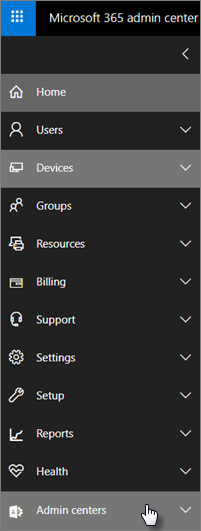
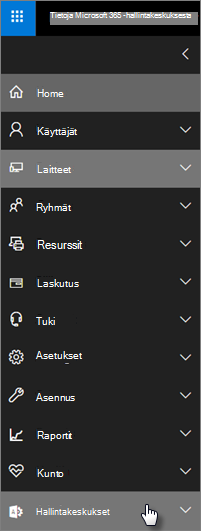
commit translated contents

diff --git a/microsoft-365/business/install-office-on-windows-10-during-setup.md b/microsoft-365/business/install-office-on-windows-10-during-setup.md
@@ -25,18 +25,18 @@ search.appverid:
 - MET150
 - MOE150
 ms.assetid: 5ffd5327-a83a-4d53-94d6-22ba2f9fd090
-description: Microsoft 365 Business Premiumin avulla voit automaattisesti varmistaa, että käyttäjillä on Officen uusin versio kaikissa Windows 10 -laitteissaan.
-ms.openlocfilehash: d3c62eb42ea73c7af6df6012dbc9488828cd1ba8
-ms.sourcegitcommit: 53acc851abf68e2272e75df0856c0e16b0c7e48d
+description: Katso, Microsoft 365 Business Premium avulla voit automaattisesti varmistaa, että käyttäjillä on uusin Office kaikissa Windows 10 laitteissaan.
+ms.openlocfilehash: 869a44196e93ed0c9f7f6f64b21fe9b2302e9a48c4b0bdcdc3a09d28bb954d1c
+ms.sourcegitcommit: a1b66e1e80c25d14d67a9b46c79ec7245d88e045
 ms.translationtype: MT
 ms.contentlocale: fi-FI
-ms.lasthandoff: 04/02/2021
-ms.locfileid: "51580170"
+ms.lasthandoff: 08/05/2021
+ms.locfileid: "53887539"
 ---
 # <a name="install-office-on-windows-10-during-setup"></a>Officen asentaminen Windows 10een asennuksen aikana
 
 ![Banneri, joka osoittaa https://aka.ms/aboutM365preview kohtaan .](../media/m365admincenterchanging.png)
 
-Tämä asetus on oletusarvoisesti pois käytöstä. Voit ottaa sen käyttöön ja varmistaa, että käyttäjillä on officen uusin versio kaikissa Windows 10 -laitteissaan, mutta varmista ensin, että kaikki edellytykset täyttyvät. Käyttäjillä on oltava Microsoft 365 Business Premium -käyttöoikeus, jotta tämä asetus työntäisi ohjelmiston laitteeseen, sekä muita Microsoft [365 Business Premiumin Office-käyttöönottoon valmistautumista](prepare-for-office-client-deployment.md)koskevia vaatimuksia.
+Tämä asetus on oletusarvoisesti pois käytöstä. Voit ottaa sen käyttöön sen varmistamiseksi, että käyttäjillä on uusin Office kaikissa Windows 10 laitteissaan, mutta varmista ensin, että kaikki edellytykset täyttyvät. Käyttäjillä on oltava käyttöoikeus Microsoft 365 Business Premium jotta tämä asetus työntäisi ohjelmiston laitteeseen, sekä muita artikkelissa Office asiakasohjelman käyttöönottoon valmistautuminen [Microsoft 365 Business Premium.](prepare-for-office-client-deployment.md)
   
-Suosittelemme, että hyväksyt oletusasetuksen asennuksen aikana.
+Oletusasetus kannattaa hyväksyä asennuksen aikana.

diff --git a/microsoft-365/business/migrate-to-microsoft-365-business.md b/microsoft-365/business/migrate-to-microsoft-365-business.md
@@ -24,12 +24,12 @@ search.appverid:
 - MET150
 ms.assetid: 5b4ba843-24b8-4526-8e1f-f9b9eab89d06
 description: Opi ero Microsoft 365 Business Standard Microsoft 365 Business Premium ja miten voit päivittää Microsoft 365 Business Premium.
-ms.openlocfilehash: 0968b877820590987f6f3ceca3efbd106b62cbd1
-ms.sourcegitcommit: a05f61a291eb4595fa9313757a3815b7f217681d
+ms.openlocfilehash: 563df2610351e2c025c618086c038750999c03df60b93b757865f76fbf86c834
+ms.sourcegitcommit: a1b66e1e80c25d14d67a9b46c79ec7245d88e045
 ms.translationtype: MT
 ms.contentlocale: fi-FI
-ms.lasthandoff: 05/29/2021
-ms.locfileid: "52705486"
+ms.lasthandoff: 08/05/2021
+ms.locfileid: "53906723"
 ---
 # <a name="upgrade-to-microsoft-365-business-premium-from-microsoft-365-business-standard"></a>Päivitä Microsoft 365 Business Premium-Microsoft 365 Business Standard
 
